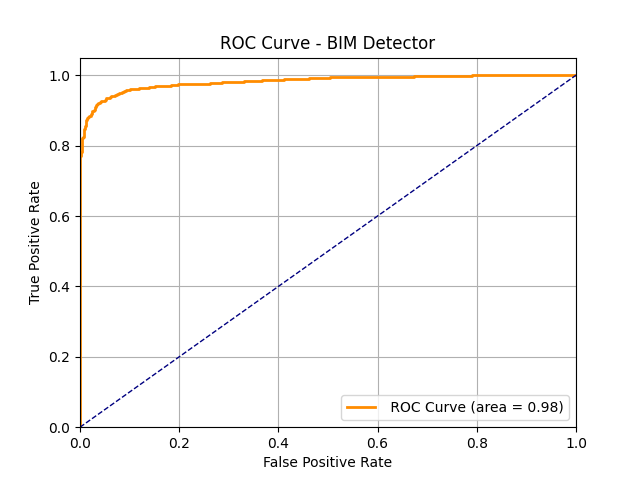
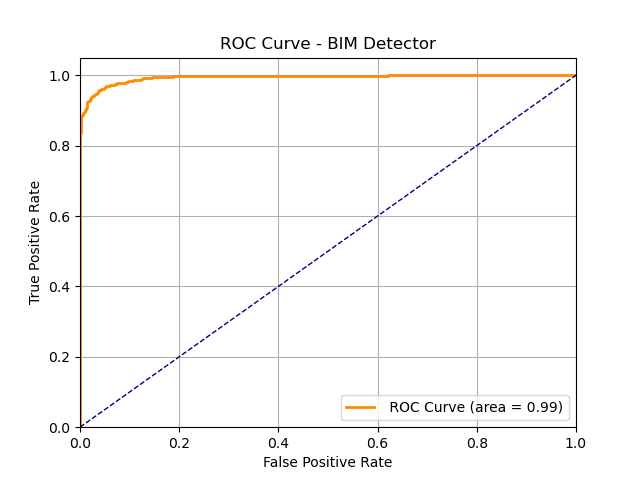
training detectors adjusted

diff --git a/nets.py b/nets.py
@@ -8,6 +8,7 @@ from facenet_pytorch.models.inception_resnet_v1 import InceptionResnetV1
 from torch.optim import Adam
 from art.estimators.classification import PyTorchClassifier
 from torch.utils.data import DataLoader, TensorDataset, random_split
+from tqdm import tqdm
 
 NUM_CLASSES = 8631  # Numero di classi nel dataset VGGFace2
 
@@ -233,8 +234,8 @@ class AdversarialDetector(nn.Module):
         feats = feats.view(feats.size(0), -1)
         return self.classifier(feats)
     
-    def fit(self, x_train, y_train, nb_epochs=20, batch_size=16, verbose=True,
-        lr=1e-4, device='cpu', model_path="./models/detector.pth", patience=3):
+    def fit(self, x_train, y_train, nb_epochs=40, batch_size=16, verbose=True,
+        lr=1e-4, device='cpu', patience=5):
     
         self.to(device)
 
@@ -255,7 +256,7 @@ class AdversarialDetector(nn.Module):
         epochs_no_improve = 0
         best_model_state = None
 
-        for epoch in range(nb_epochs):
+        for epoch in tqdm(range(nb_epochs), desc="Epochs"):
             self.train()
             running_loss = 0.0
 
@@ -310,42 +311,29 @@ class AdversarialDetector(nn.Module):
         if best_model_state is not None:
             self.load_state_dict(best_model_state)
 
-        # Salvataggio dello state_dict del modello
-        os.makedirs(os.path.dirname(model_path), exist_ok=True)
-        torch.save(self.state_dict(), model_path)
-        print(f"Detector salvato in: {model_path}")
 
+def get_detector(device="cpu", finetune=False):
 
-def get_detector(device="cpu"):
-    # questo è per il fine tuning della rete
-    #backbone = InceptionResnetV1(pretrained='vggface2', classify=False)
-
-    # per addestrare la rete da zero
-    backbone = InceptionResnetV1(classify=False)
+    if finetune:
+        # Finetuning della rete
+        backbone = InceptionResnetV1(pretrained='vggface2', classify=False)
+    else:
+        # Addestra la rete da zero
+        backbone = InceptionResnetV1(classify=False)
     
     # Sblocca tutta la backbone
     for param in backbone.parameters():
         param.requires_grad = True
     
-    # fine tuning solo sull'ultimo layer della backbone (lo usiamo solo per la relazione)
-    '''
-    # Sblocca solo gli ultimi blocchi (esempio: block8)
-    for name, param in backbone.named_parameters():
-        if "block8" in name:
-            param.requires_grad = True
-    '''
-    backbone.to(device)
     detector = AdversarialDetector(backbone)
     detector.to(device)
-    print("Adversarial Detector con l'intera backbone sbloccata")
     return detector
 
 
 def setup_classifierNN1(device, classify=True):
     # Istanzio la rete
     nn1 = get_NN1(device, classify)
-
-    # Definizione dei classificatori
+    # Definizione del classificatore
     classifierNN1 = PyTorchClassifier(
         model=nn1,
         loss=torch.nn.CrossEntropyLoss(),
@@ -378,19 +366,15 @@ def setup_classifierNN2(device):
 def setup_detector_classifier(device):
     # Istanzio la rete
     detector = get_detector(device)
-
-    # Definizione dei classificatori
+    # Definizione del classificatore
     classifier = PyTorchClassifier(
         model=detector,
         loss=torch.nn.CrossEntropyLoss(),
-        optimizer = torch.optim.Adam(
-        filter(lambda p: p.requires_grad, detector.parameters()), 
-        lr=1e-3
-        ),
+        optimizer = torch.optim.Adam(detector.parameters(), lr=1e-4),
         input_shape=(3, 224, 224),
         channels_first=True,
         nb_classes=2,
-        clip_values=(-0.5, 0.5),
+        clip_values=(-1.0, 1.0),
         device_type="gpu" if torch.cuda.is_available() else "cpu"
     )
     return classifier

diff --git a/train_detectors.py b/train_detectors.py
@@ -17,25 +17,24 @@ def main():
     
     # indica i detector da addestrare o caricare
     attack_types = ["fgsm", "bim", "pgd", "df", "cw"]
-    attack_types = ["pgd"]
+    attack_types = ["fgsm", "bim", "pgd"]
 
     # Training set di partenza, con immagini clean
     train_images_clean = get_train_set().get_images()
     nb_train = train_images_clean.shape[0]
 
     #### FASE DI TRAINING ####
-    detectors = {}
-    if False:
+    if True:
         for attack_type in attack_types:
             model_path = os.path.join("./models", f"{attack_type}_detector.pth")
             detector_classifier = setup_detector_classifier(device)
 
             print(f"Training detector for attack: {attack_type}")
-            detectors[attack_type] = BinaryInputDetector(detector_classifier)
+            detector = BinaryInputDetector(detector_classifier)
             
             # Trainining set avversario
             training_set_path = os.path.join("./dataset/detectors_train_set/adversarial_examples/", attack_type)
-            train_images_adv=load_images_from_npy_folder(training_set_path)
+            train_images_adv = load_images_from_npy_folder(training_set_path)
             train_images_adv = np.concatenate(train_images_adv, axis=0)
             print(f"Train clean images shape: {np.shape(train_images_clean)}")
             print(f"Train images adversarial shape: {np.shape(train_images_adv)}")
@@ -47,7 +46,7 @@ def main():
             y_train_detector = np.concatenate((np.array([[1, 0]] * nb_train), np.array([[0, 1]] * np.shape(train_images_adv)[0])), axis=0)
 
             # Inizio addestramento del detector
-            detectors[attack_type].fit(x_train_detector, y_train_detector, nb_epochs=20, batch_size=16, verbose=True)
+            detector.fit(x_train_detector, y_train_detector, nb_epochs=30, batch_size=16, verbose=True)
             detector_classifier.model.eval()
 
             # Salvataggio dello state_dict del modello
@@ -77,9 +76,11 @@ def main():
             # Converti i numpy array in tensori PyTorch
             x_train_tensor = torch.tensor(x_train_detector, dtype=torch.float32)
             y_train_tensor = torch.tensor(np.argmax(y_train_detector, axis=1), dtype=torch.long)
-            # Train and save
-            detector.fit(x_train_tensor, y_train_tensor, nb_epochs=40, batch_size=16, verbose=True, model_path=model_path, device=device, patience=5)
-
+            # Train 
+            detector.fit(x_train_tensor, y_train_tensor, nb_epochs=40, batch_size=16, verbose=True, device=device, patience=5)
+            # Salvataggio dello state_dict del modello
+            torch.save(detector.state_dict(), model_path)
+            print(f"Detector salvato in: {model_path}")
 
 if __name__ == "__main__":
     main()

diff --git a/detector_training_set.py b/detector_training_set.py
@@ -208,12 +208,11 @@ def generate_train_adv(classifier, images, attack_types):
 
 if __name__ == "__main__":
     random.seed(33) # Imposta il seed per la riproducibilità
-    number_img_train = DIM_TRAIN # Numero di immagini totale del training set
     dataset_directory_origin = './dataset/vggface2_train/train' # Directory di origine contenente le sottocartelle per ogni ID persona con le immagini
     dataset_directory_destination = './dataset/detectors_train_set/clean/original' # Directory in cui salvare le immagini selezionate
     dataset_directory_processed = './dataset/detectors_train_set/clean/processed' # Directory in cui salvare le immagini proccessate
     os.makedirs(dataset_directory_destination, exist_ok=True)
-    generate_train_clean(dataset_directory_origin, dataset_directory_destination, number_img_train)
+    generate_train_clean(dataset_directory_origin, dataset_directory_destination, DIM_TRAIN)
     process_dataset(dataset_directory_destination, dataset_directory_processed)
     
     # Generazione dati adv
@@ -221,5 +220,4 @@ if __name__ == "__main__":
     attack_types = ["fgsm", "bim", "pgd"]
     train_images_clean = get_train_set().get_images() 
     generate_train_adv(setup_classifierNN1(device), train_images_clean, attack_types)
-    # bisogna aggiungere la chiamata a generate_train_adv(classifier, images, attack_types)
     

diff --git a/test_detectors.py b/test_detectors.py
@@ -77,9 +77,9 @@ def main():
 
     #imposta il seed per ripetere gli esperimenti
     np.random.seed(2025)
-    NUM_SAMPLES_ADVERSARIAL = 1000  # numero di campioni da inserire nel test adversarial (dato che i dati clean sono 1000, usiamo 1000 campioni
+    NUM_SAMPLES_ADVERSARIAL = 1000  # numero di campioni da inserire nel test adversarial (dato che i dati clean sono 1000, usiamo 1000 campioni)
     attack_types = ["fgsm", "bim", "pgd", "df", "cw"]
-    attack_types = ["fgsm", "bim"]    
+    attack_types = ["fgsm", "bim", "pgd"]    
 
     # Load Detectors
     detectors = load_detectors(attack_types, device)
